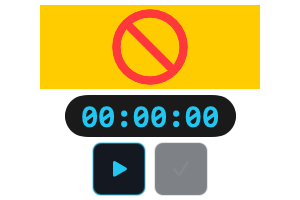
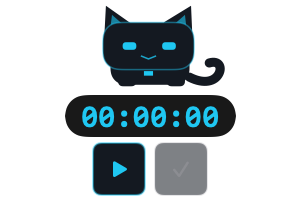
Capture complete native macOS views for README screenshots

diff --git a/macos/Tools/RenderScreenshots.swift b/macos/Tools/RenderScreenshots.swift
@@ -19,11 +19,19 @@ import AppKit
         }
         _ = model.replaceHistory(sessions)
         func render<V: View>(_ view: V, name: String, width: CGFloat, height: CGFloat) throws {
-            let renderer = ImageRenderer(content: view.frame(width: width, height: height))
-            renderer.scale = 2
-            guard let cg = renderer.cgImage else { throw NSError(domain: "Render", code: 1) }
-            let data = NSBitmapImageRep(cgImage: cg).representation(using: .png, properties: [:])!
+            let window = NSWindow(contentRect: NSRect(x: 0, y: 0, width: width, height: height), styleMask: [.borderless], backing: .buffered, defer: false)
+            let host = NSHostingView(rootView: view.frame(width: width, height: height))
+            window.contentView = host
+            host.frame = NSRect(x: 0, y: 0, width: width, height: height)
+            host.layoutSubtreeIfNeeded()
+            window.displayIfNeeded()
+            RunLoop.main.run(until: Date().addingTimeInterval(0.3))
+            host.layoutSubtreeIfNeeded()
+            guard let bitmap = host.bitmapImageRepForCachingDisplay(in: host.bounds) else { throw NSError(domain: "Render", code: 1) }
+            host.cacheDisplay(in: host.bounds, to: bitmap)
+            let data = bitmap.representation(using: .png, properties: [:])!
             try data.write(to: out.appendingPathComponent(name))
+            window.orderOut(nil)
         }
         try render(HistoryView(model: model), name: "macos-journal.png", width: 980, height: 800)
         try render(PetView(model: model, showOptions: { _ in }, primary: {}, finish: {}), name: "macos-pet.png", width: 150, height: 100)

diff --git a/README.md b/README.md
@@ -26,7 +26,7 @@ Windows and Linux packages bundle their runtime. The APK is debug-signed; deskto
 
 ## Screenshots
 
-The images show the actual platform views rendered with isolated example sessions. macOS images use SwiftUI's native renderer; Windows/Linux images are captured from Qt widgets on their respective CI runners. Android is captured from the native app on an Android 15 emulator. Sample time totals are demonstration data, not personal activity.
+The images show the actual platform views rendered with isolated example sessions. macOS images are captured from native AppKit-hosted SwiftUI views; Windows/Linux images are captured from Qt widgets on their respective CI runners. Android is captured from the native app on an Android 15 emulator. Sample time totals are demonstration data, not personal activity.
 
 ### Android
 
@@ -34,7 +34,9 @@ The images show the actual platform views rendered with isolated example session
 
 ### macOS
 
-Platform screenshots are generated by the build workflow and will be included with the release documentation.
+<img src="docs/screenshots/macos-pet.png" alt="Tiny macOS floating cyber-cat stopwatch" width="200" />
+
+![macOS focus journal](docs/screenshots/macos-journal.png)
 
 ### Windows and Ubuntu/Linux
 
